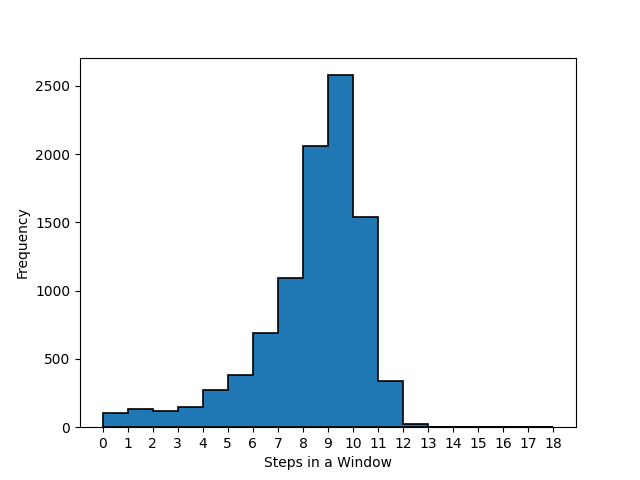
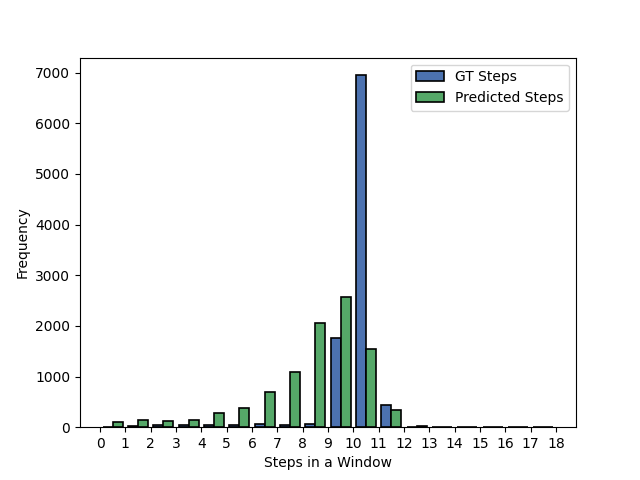
name change and histogram improvements

diff --git a/training/generate_histogram.py b/training/generate_histogram.py
@@ -25,18 +25,20 @@ with open(sys.argv[1], newline='\n') as fpt:
     reader = csv.reader(fpt, delimiter=',')
     data = list(reader)
 
-histdata = list(line[4] for line in data)           # get column 5 (predicted steps in window)
-histdata.pop(0)                                     # remove string header
-histdata = np.array([float(x) for x in histdata])   # convert to float
-histdata = np.array(histdata)                       # convert to array
+predicted_steps = list(line[4] for line in data)                    # get column 5 (predicted steps in window)
+gt_steps = list(line[3] for line in data)                           # get column 4 (gt steps in window)
+predicted_steps.pop(0)                                              # remove string header
+gt_steps.pop(0)
+predicted_steps = np.array([float(x) for x in predicted_steps])     # convert to float
+gt_steps = np.array([float(x) for x in gt_steps])
+predicted_steps = np.array(predicted_steps)                         # convert to array
+gt_steps = np.array(gt_steps) 
 
 # plot histogram of steps
 print("Plotting histogram...")
-d = np.diff(np.unique(histdata)).min()
-left_of_first_bin = histdata.min() - float(d)/2
-right_of_last_bin = histdata.max() + float(d)/2
-plt.figure(1)
-figure = plt.hist(histdata, bins=range(0, 19, 1), edgecolor='black', linewidth=1.2, histtype='stepfilled')
+plt.style.use('seaborn-deep')
+plt.hist([gt_steps, predicted_steps], bins=range(0, 19, 1), edgecolor='black', linewidth=1.2, label=['GT Steps', 'Predicted Steps'])
+plt.legend(loc='upper right')
 plt.xticks(np.arange(0, 19, step=1))
 plt.xlabel("Steps in a Window")
 plt.ylabel("Frequency")
